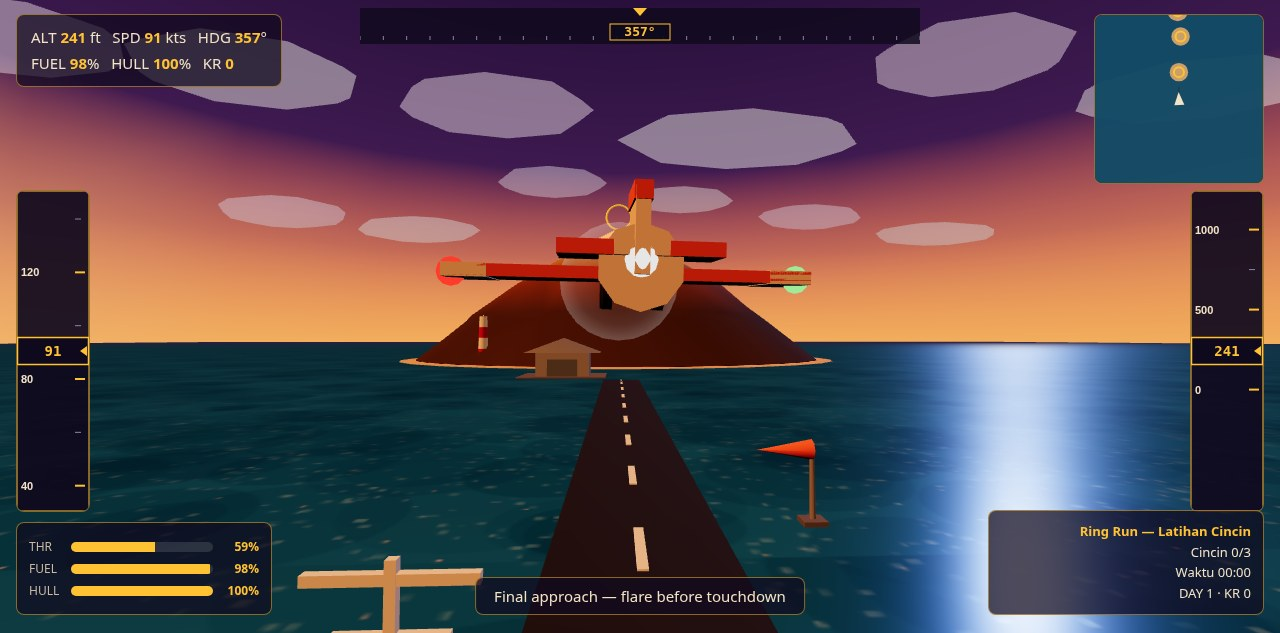
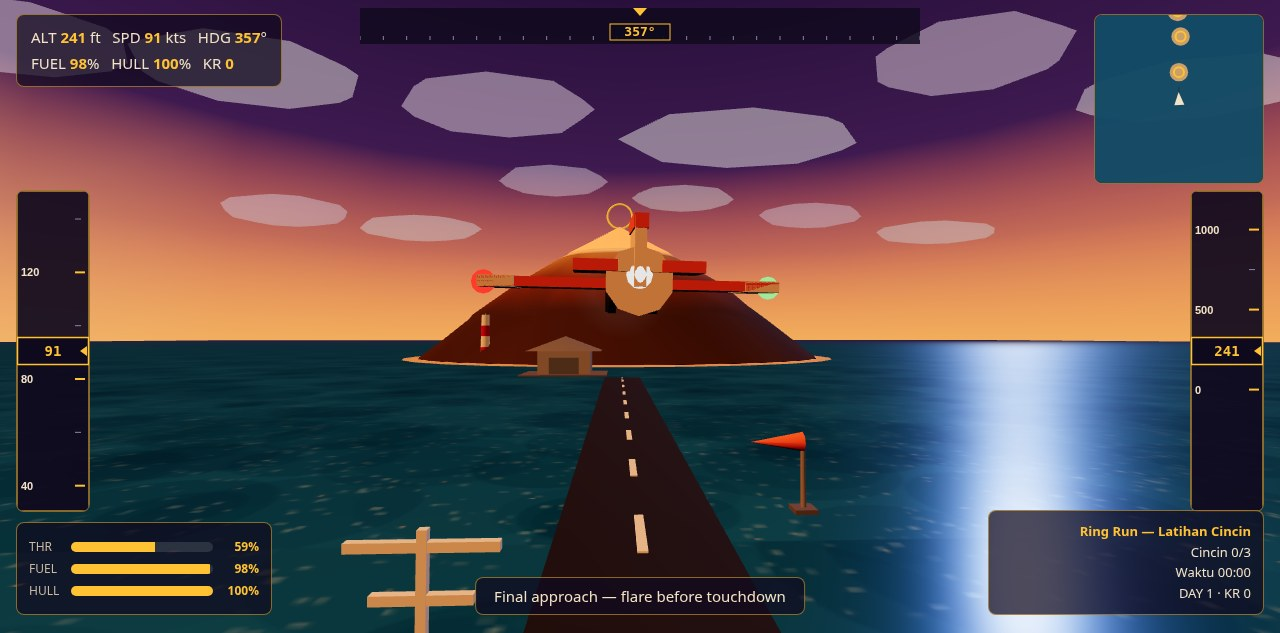
M9-fix (Gemini 2-of-3 AGREE WITH FIXES Rank 1+2): prop disc opacity 0.55->0.28 max + transparent rim (livery reads); landing/end chase zoom +40 (ILS mast + both bars in frame, reads as grounded antenna). Tests 31/31, dossier rebuilt

diff --git a/game/src/render.js b/game/src/render.js
@@ -197,9 +197,12 @@ function propTexture() {
   canvas.height = 128;
   const ctx = canvas.getContext('2d');
   const g = ctx.createRadialGradient(64, 64, 8, 64, 64, 64);
-  g.addColorStop(0, 'rgba(220,220,220,0.05)');
-  g.addColorStop(0.7, 'rgba(220,220,220,0.35)');
-  g.addColorStop(1, 'rgba(240,240,240,0.75)');
+  // M9-fix Rank 1: soft falloff to a transparent rim (was 0.75 bright rim —
+  // the disc read as a solid white circle). Peak mid-disc 0.25; effective
+  // alpha is texture x material opacity (chase max 0.28).
+  g.addColorStop(0, 'rgba(255,255,255,0.06)');
+  g.addColorStop(0.5, 'rgba(255,255,255,0.25)');
+  g.addColorStop(1, 'rgba(255,255,255,0.0)');
   ctx.fillStyle = g;
   ctx.fillRect(0, 0, 128, 128);
   const tex = new THREE.CanvasTexture(canvas);
@@ -645,7 +648,7 @@ export function buildScene(world) {
   const prop = new THREE.Mesh(
     new THREE.CircleGeometry(26, 24),
     new THREE.MeshBasicMaterial({
-      map: propTexture(), color: 0xffffff, transparent: true, opacity: 0.3,
+      map: propTexture(), color: 0xffffff, transparent: true, opacity: 0.25,
       side: THREE.DoubleSide, forceSinglePass: true, depthWrite: false,
     }),
   );
@@ -711,11 +714,12 @@ export function updateScene(view, world, dt, camOrbit, cockpit = false) {
   view.plane.rotation.x = p.pitch * DEG;
   // Prop blur disc: opacity grows with throttle (a still disc at idle).
   // Fainter in the cockpit — from the pilot's seat it sits right in the
-  // eyeline and would wash out the mountain ahead. M9: higher base so
-  // the radial-gradient disc reads in chase view too.
+  // eyeline and would wash out the mountain ahead. M9-fix Rank 1: chase
+  // capped at 0.28 (was 0.55 at full throttle — solid white circle that
+  // drowned the two-tone livery); texture rim is now transparent.
   view.prop.material.opacity = cockpit
     ? 0.08 + p.throttle * 0.12
-    : 0.2 + p.throttle * 0.35;
+    : 0.15 + p.throttle * 0.13;
   // Rings spin slowly; collected rings hide.
   for (let i = 0; i < view.ringMeshes.length; i += 1) {
     view.ringMeshes[i].rotation.z += dt * 0.4;

diff --git a/game/src/main.js b/game/src/main.js
@@ -162,9 +162,14 @@ if (shotName) {
   if (shotName === 'start') document.body.classList.add('shot-start');
   // M8-fix, shot 3 only: 2° three-quarter rear chase (breaks the tail's
   // "red cross" read) + a lower camera (pulls the ILS mast up into the
-  // frame so it reads as an antenna, not a clipped glitch). Other shots
-  // keep the straight chase; shot 4/end is untouched.
-  const shotOrbit = shotName === 'landing' ? { yaw: 2, pitch: -80 } : { yaw: 0, pitch: 0 };
+  // frame so it reads as an antenna, not a clipped glitch). M9-fix Rank 2:
+  // pull back 40 ft (zoom) on landing AND end — probe showed Y+2 moves
+  // bar2 by ~2 px (no-op) and pitch can't clear it, but zoom+40 lifts
+  // bar2 ~35 px into frame (mast + both bars visible); the ILS pad stays
+  // below frame, so the mast exits the bottom edge like a grounded pole.
+  const shotOrbit = shotName === 'landing'
+    ? { yaw: 2, pitch: -80, zoom: 40 }
+    : shotName === 'end' ? { yaw: 0, pitch: 0, zoom: 40 } : { yaw: 0, pitch: 0 };
   if (shotName === 'end') {
     run = createMissionRun(MISSIONS[0], world);
     run.status = 'complete';
